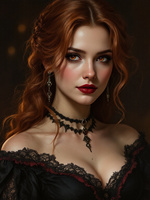
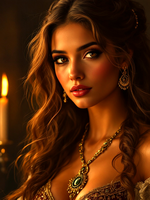
Portrait arabisant et description a jour de Milady (wiki)

diff --git a/src/main/java/com/extremis/db/CharacterSeeder.java b/src/main/java/com/extremis/db/CharacterSeeder.java
@@ -93,7 +93,9 @@ public class CharacterSeeder implements ApplicationRunner {
             c.setVitalite(13);
             c.setSangFroid(17);
             c.setDescription("Espionne talentueuse et mythomane, elle a tout l'art d'une bonne agente, "
-                    + "de la discretion au marchandage. Elle est possedee par un esprit demoniaque et tres belle.");
+                    + "de la discretion au marchandage. Elle est possedee par un esprit demoniaque et tres belle, "
+                    + "la peau bronzee doree et les cheveux bruns. Elle est completement devouee a sa coterie "
+                    + "les Saabi, les seuls pour lesquels sa loyaute douteuse devient sans faille.");
             repository.save(c);
         });
     }
